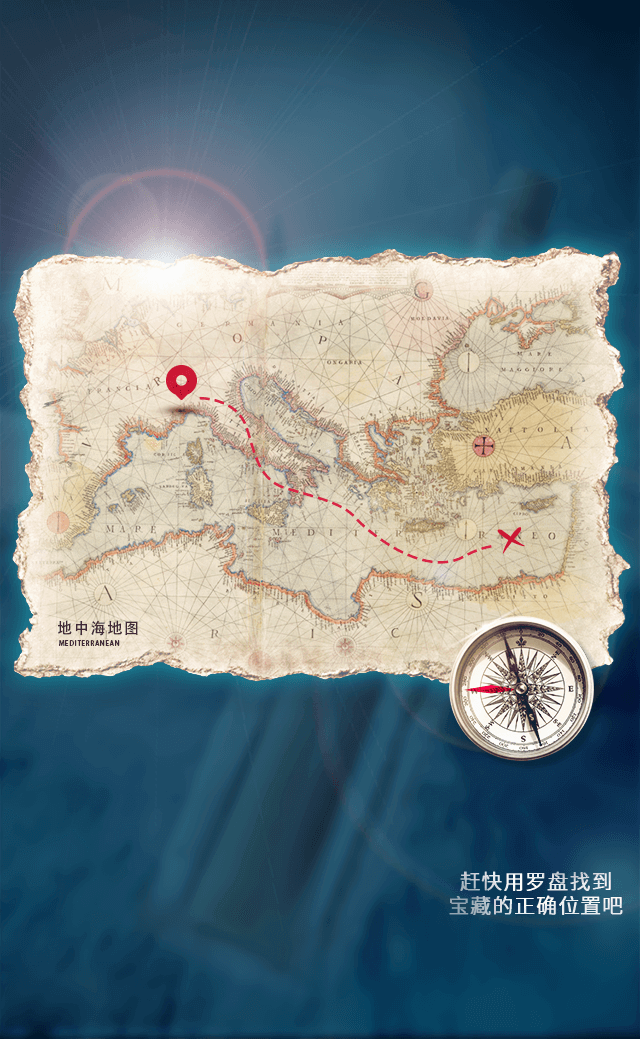
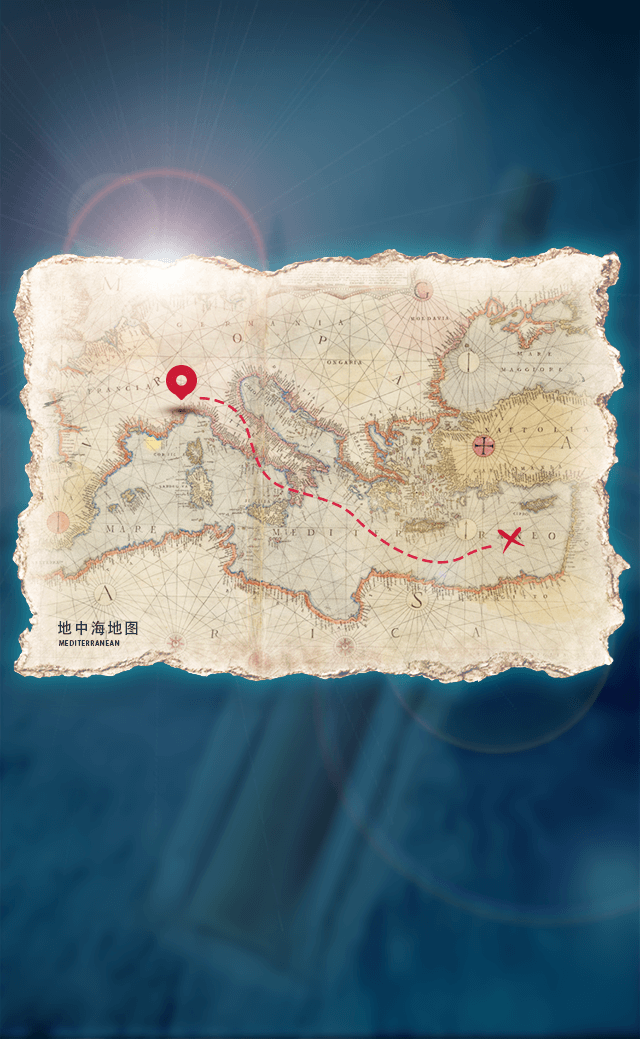
首页修改

Changed region(s): [[0.6875, 0.5852, 0.9375, 0.7392], [0.6875, 0.8316, 0.9688, 0.8932]]

diff --git a/public/assets/js/common-mod.js b/public/assets/js/common-mod.js
@@ -60,6 +60,7 @@ function loadingPage1(){
 	var images=[];
 	images.push("assets/images/page0Img3.png");
 	images.push("assets/images/page0Img4.png");
+	images.push("assets/images/page0Img5.png");
 	images.push("assets/images/5th_ave_1.jpg");
 	images.push("assets/images/5th_ave_2.jpg");
 	images.push("assets/images/5th_ave_3.jpg");
@@ -68,9 +69,14 @@ function loadingPage1(){
 	images.push("assets/images/5th_ave_6.jpg");
 	images.push("assets/images/preview.jpg");
 
+	images.push("assets/images/page0RuleBg.png");
+
+	images.push("assets/images/page1Img3.png");
 	images.push("assets/images/page1Img4.png");
 	images.push("assets/images/page1Img5.png");
+	images.push("assets/images/page1Img5b.png");
 	images.push("assets/images/page1Img6.png");
+	images.push("assets/images/page1Img7.png");
 	images.push("assets/images/page2Img1.jpg");
 
     /*图片预加载*/
@@ -91,12 +97,13 @@ function loadingPage1(){
 	}
 
 function goPage1(){
-	$j('.page0Img1').removeClass('page0Img1Act').fadeOut(500);
-	$j('.page0Img2').removeClass('page0Img2Act').fadeOut(500);
+	//$j('.page0Img1').removeClass('page0Img1Act').fadeOut(500);
+	//$j('.page0Img2').removeClass('page0Img2Act').fadeOut(500);
 	$j('.loadingImg').hide();
 	$j('.loadTxt').hide();
-	$j('.page0Img3').addClass('page0Img3Act').show();
-	setTimeout(function(){
+	$j('.page0Img4').fadeIn(500);
+	$j('.indexBtn1,.indexBtn2,.indexBtn3').show();
+	/*setTimeout(function(){
 		$j('.page0Img4').addClass('page0Img4Act').show();
 		$j('.page0').fadeOut(500);
 		setTimeout(function(){
@@ -112,21 +119,75 @@ function goPage1(){
 				$j('.page1Img3').fadeOut(500);
 				},3000);
 			},1000);
-		},4000);
+		},4000);*/
+	}
+
+function indexStartGame(){
+	$j('.indexBtn1,.indexBtn2,.indexBtn3').hide();
+	$j('.page0Img1').removeClass('page0Img1Act').fadeOut(500);
+	$j('.page0Img2').removeClass('page0Img2Act').fadeOut(500);
+	$j('.page0Img4').fadeOut(500);
+	$j('.page0Img3').addClass('page0Img3Act').show();
+	setTimeout(function(){
+		$j('.page0Img5').addClass('page0Img5Act').show();
+		$j('.page0Img3').removeClass('page0Img3Act');
+		$j('.page0').delay(500).fadeOut(500);
+
+		setTimeout(function(){
+			$j('.page1').fadeIn(500);
+			hidePanoLayerEle(['compass1']);
+			$j('#pano').fadeIn(1000);
+			$j('.page1Img0').fadeOut(1500);
+			setTimeout(function(){
+				$j('.page0Img4').hide();
+				$j('.page1Img0').hide();
+				$j('#page1Img2').fadeOut(1000);
+				$j('.page1Img3').fadeOut(500);
+				},3000);
+			},1500);
+		},3500);
+	}
+
+function showRule(){
+	$j('.indexBtn1,.indexBtn2,.indexBtn3').hide();
+	$j('.pageRule').fadeIn(500);
+	}
+function closeRule(){
+	$j('.indexBtn1,.indexBtn2,.indexBtn3').show();
+	$j('.pageRule').fadeOut(500);
+	}
+
+function showMyAward(){
+	$j('.indexBtn1,.indexBtn2,.indexBtn3').hide();
+	$j('.pageAward').fadeIn(500);
+	}
+function closeAward(){
+	$j('.indexBtn1,.indexBtn2,.indexBtn3').show();
+	$j('.pageAward').fadeOut(500);
+	}
+
+function showShareNote(){
+
 	}
 
 function getBottle(){
 	$j('#pano').fadeOut(500);
 	$j('.page1Img4').fadeIn(500);
 	$j('.page1Img5').addClass('page1Img5Act').show();
+	$j('.page1Img5b').delay(500).fadeIn(500).click(function(){
+		goLuopan();
+		});
+	}
 
+function goLuopan(){
+	$j('.page1Img4').fadeOut(500);
+	$j('.page1Img5').hide();
+	$j('.page1Img5b').hide();
+	$j('.page1Img6').fadeIn(500);
+	$j('.page1Img7').delay(2500).fadeIn(500);
 	setTimeout(function(){
-		$j('.page1Img4').fadeOut(500);
-		$j('.page1Img5').hide();
-		$j('.page1Img6').fadeIn(500);
-		$j('.page1Img7').show();
-		$j('.page1Img8').show();
-		},2000);
+		backPano2();
+		},5000);
 	}
 
 var krpano;

diff --git a/public/assets/css/common.css b/public/assets/css/common.css
@@ -16,7 +16,7 @@ select,input,textarea{font-family:inherit; outline:none;}
 .innerDiv{ width:100%; height:100%; position:relative;}
 .abs{ position:absolute;}
 
-.page{ position:absolute; left:0; top:0;}
+.page{ position:absolute; left:0; top:0; width:640px;}
 .pageOuter{ width:640px; overflow:hidden; margin:0 auto; position:relative;}
 .h832{ width:640px; height:832px;}
 .bgImg{ position:absolute; left:0; top:-104px; width:640px; height:1039px; display:block;}
@@ -49,13 +49,37 @@ select,input,textarea{font-family:inherit; outline:none;}
 0%{-webkit-transform:translate(0,20px); opacity:0; -webkit-opacity:0;}
 100%{-webkit-transform:translate(0,0); opacity:1; -webkit-opacity:1;}
 }
-.page0Img4{ background:url(../images/page0Img4.png) 0 0 no-repeat; width:1280px; height:1340px; position:absolute; left:50%; top:50%; margin:-670px 0 0 -640px;}
-.page0Img4Act{
--webkit-animation:page0Img4Act 1.5s 0s linear both; -webkit-transform-origin:640px 670px;}
+.page0Img4{ background:url(../images/page0Img4.png) 0 0 no-repeat;}
+.indexBtn1{ left:198px; top:439px;}
+.indexBtn2{ left:198px; top:539px;}
+.indexBtn3{ left:198px; top:640px;}
+
+.page0RuleBg{ background:url(../images/page0RuleBg.png) 0 0 no-repeat;}
+.ruleBlock{ width:640px; height:553px; left:0; top:123px; overflow-x:hidden; overflow-y:auto;}
+.indexBtn4{ left:269px; top:696px;}
+
+.page0Award1{ background:url(../images/page0Award1.png) 0 0 no-repeat;}
+.page0Award2{ background:url(../images/page0Award2.png) 0 0 no-repeat;}
+.page0Award3{ background:url(../images/page0Award3.png) 0 0 no-repeat;}
+.indexBtn5{ left:269px; top:762px;}
+.indexBtn6{ left:194px; top:370px;}
+
+.page0Img5{ background:url(../images/page0Img5.png) 0 0 no-repeat;}
+.page0Img5Act{
+-webkit-animation:page0Img5Act 1.5s 0s linear both; -webkit-transform-origin:50% 50%;}
+@-webkit-keyframes page0Img5Act{
+0%{-webkit-transform:scale(1); opacity:0;}
+30%{-webkit-transform:scale(1); opacity:1;}
+100%{-webkit-transform:scale(5); opacity:1;}
+}
+
+/*.page0Img5{ background:url(../images/page0Img5.png) 0 0 no-repeat; width:1280px; height:1340px; position:absolute; left:50%; top:50%; margin:-670px 0 0 -640px;}
+.page0Img5Act{
+-webkit-animation:page0Img5Act 1.5s 0s linear both; -webkit-transform-origin:640px 670px;}
 @-webkit-keyframes page0Img4Act{
 0%{-webkit-transform:scale(0.9); opacity:1;}
 100%{-webkit-transform:scale(4); opacity:0;}
-}
+}*/
 .loadingImg{ left:265px; top:397px;
 -webkit-animation:loadingImg 5s 0s linear both infinite; -webkit-transform-origin:55px 55px;}
 @-webkit-keyframes loadingImg{
@@ -85,9 +109,11 @@ select,input,textarea{font-family:inherit; outline:none;}
 80%{-webkit-transform:scale(1.2); opacity:1; -webkit-opacity:1;}
 100%{-webkit-transform:scale(1); opacity:1; -webkit-opacity:1;}
 }
+.page1Img5b{ background:url(../images/page1Img5b.png) 0 0 no-repeat;}
 
 .page1Img6{ background:url(../images/page1Img6.png) 0 0 no-repeat;}
-.page1Img7{ left:500px; top:670px;
+.page1Img7{ background:url(../images/page1Img7.png) 0 0 no-repeat;}
+/*.page1Img7{ left:500px; top:670px;
 -webkit-animation:page1Img7 1s 0.5s linear both infinite;
 -webkit-transform-origin:50% 50%;}
 @-webkit-keyframes page1Img7{
@@ -95,7 +121,7 @@ select,input,textarea{font-family:inherit; outline:none;}
 30%{-webkit-transform:scale(1.2);}
 60%{-webkit-transform:scale(1);}
 100%{-webkit-transform:scale(1);}
-}
+}*/
 .page1Img8{ left:449px; top:511px;}
 
 /*page2*/

diff --git a/resources/views/index.blade.php b/resources/views/index.blade.php
@@ -25,12 +25,40 @@
                 <img src="{{asset('assets/images/loadingImg.png')}}" class="abs loadingImg" style="display:none;">
                 <div class="loadTxt abs" style="display:none;">LOADING <span>0</span>%</div>
 
+                <div class="page0Img4 bgImg" style="display:none;"></div>
+                <a href="javascript:void(0);" class="abs indexBtn1" onClick="indexStartGame();" style="display:none;"><img src="{{asset('assets/images/space.gif')}}" width="250" height="52"></a>
+                <a href="javascript:void(0);" class="abs indexBtn2" onClick="showRule();" style="display:none;"><img src="{{asset('assets/images/space.gif')}}" width="250" height="52"></a>
+                <a href="javascript:void(0);" class="abs indexBtn3" onClick="showMyAward();" style="display:none;"><img src="{{asset('assets/images/space.gif')}}" width="250" height="52"></a>
+
                 <div class="page0Img3 bgImg" style="display:none;"></div>
             </div>
         </div>
     </div>
 
-    <div class="page0Img4" style="display:none;"></div>
+    <div class="pageRule page" style="display:none;">
+    	<div class="h832">
+        	<div class="innerDiv">
+				<div class="page0RuleBg bgImg"></div>
+            	<div class="abs ruleBlock">
+                	<img src="{{asset('assets/images/ruleImg.png')}}">
+                </div>
+                <a href="javascript:void(0);" class="abs indexBtn4" onClick="closeRule();"><img src="{{asset('assets/images/space.gif')}}" width="103" height="103"></a>
+            </div>
+        </div>
+    </div>
+
+    <div class="pageAward page" style="display:none;">
+    	<div class="h832">
+        	<div class="innerDiv">
+				<div class="page0Award page0Award1 bgImg"></div>
+                <img src="{{asset('assets/images/page0AwardQc.png')}}" class="bgImg">
+                <a href="javascript:void(0);" class="abs indexBtn6" onClick="showShareNote();"><img src="{{asset('assets/images/space.gif')}}" width="252" height="52"></a>
+                <a href="javascript:void(0);" class="abs indexBtn5" onClick="closeAward();"><img src="{{asset('assets/images/space.gif')}}" width="103" height="103"></a>
+            </div>
+        </div>
+    </div>
+
+    <div class="page0Img5 bgImg" style="display:none;"></div>
 
     <div class="page1 page" style="display:none;">
     	<div class="h832">
@@ -50,10 +78,10 @@
 
                 <div class="page1Img4 bgImg" style="display:none;"></div>
                 <div class="page1Img5 bgImg" style="display:none;"></div>
+                <div class="page1Img5b bgImg" style="display:none;"></div>
 
                 <div class="page1Img6 bgImg" style="display:none;"></div>
-                <img src="{{asset('assets/images/page1Img7.png')}}" class="abs page1Img7" style="display:none;">
-                <img src="{{asset('assets/images/space.gif')}}" width="146" height="146" class="abs page1Img8" style="display:none;" onClick="backPano2();">
+                <div class="page1Img7 bgImg" style="display:none;"></div>
             </div>
         </div>
     </div>
@@ -64,7 +92,7 @@
 				<div class="page2Img1 bgImg" style="overflow:visible;">
                 	<img src="{{asset('assets/images/page2Img1.jpg')}}" class="abs page2Img1Img">
                 </div>
-                <img src="{{asset('assets/images/page2Img2.png')}}" class="abs page2Img2" onClick="goGame('{{url("game")}}');" style="display:none;">
+                <img src="{{asset('assets/images/page2Img2.png')}}" class="abs page2Img2" onClick="goGame();" style="display:none;">
             </div>
         </div>
     </div>
@@ -72,7 +100,6 @@
 
 <img src="{{asset('assets/images/logo.png')}}" class="abs logo">
 <a href="javascript:void(0);" class="abs musicBtn"><img src="{{asset('assets/images/musicBtn.png')}}"></a>
-
 @endsection
 @section('scripts')
 <script src="{{asset('assets/js/jquery-1.9.1.min.js')}}"></script>

diff --git a/app/Helpers/Lottery.php b/app/Helpers/Lottery.php
@@ -44,17 +44,16 @@ class Lottery
         $wechat_user = $this->wechat_user;
 
         //判断当日是否中奖,已中奖则不发奖
-        /*
+        //一个用户只能中一次奖
         $count1 = \App\Lottery::where('user_id', $wechat_user->id)
             ->where('prize_id', '>', 0)
-            ->where('lottery_time', '>=', date('Y-m-d', $timestamp))
-            ->where('lottery_time', '<=', date('Y-m-d 23:59:59', $timestamp))
+            //->where('lottery_time', '>=', date('Y-m-d', $timestamp))
+            //->where('lottery_time', '<=', date('Y-m-d 23:59:59', $timestamp))
             ->sharedLock()
             ->count();
         if( $count1 > 0 ){
             return;
         }
-        */
 
         //获取时间配置,当前为分配时间则不中奖,发默认奖
         $config = \App\LotteryConfig::where('start_time','<=',$time)->where('shut_time','>',$time)->sharedLock()->first();

diff --git a/app/Http/Controllers/HomeController.php b/app/Http/Controllers/HomeController.php
@@ -16,6 +16,7 @@ class HomeController extends Controller
 
     public function index()
     {
+        $wechat_user = \App\WechatUser::where('open_id', \Request::session()->get('wechat.openid'))->first();
         return view('index');
     }
     public function game()
